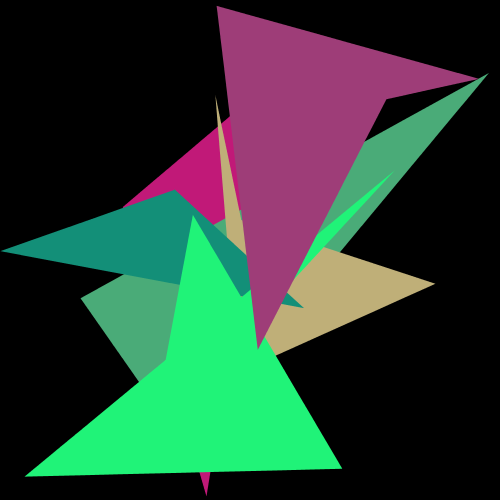
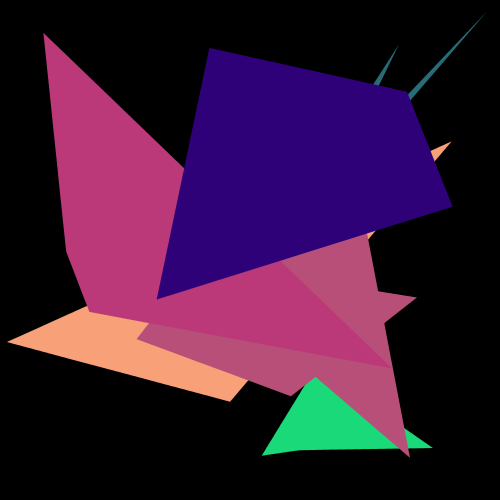
updated processing

diff --git a/index.js b/index.js
@@ -1,4 +1,6 @@
 var Twit = require('twit');
+var exec = require('child_process').exec;
+var commands = require('./config/processingCommands.js')
 var config = require('./config/config.js');
 var tweet = require('./tweeting/tweet.js')
 
@@ -9,6 +11,10 @@ var T = new Twit({
   access_token: config.access_token,
   access_token_secret: config.access_token_secret
 });
+
+exec(commands.simpleP, function() {
+  console.log('print');
+})
 
 var params = {
   q: 'hype',
